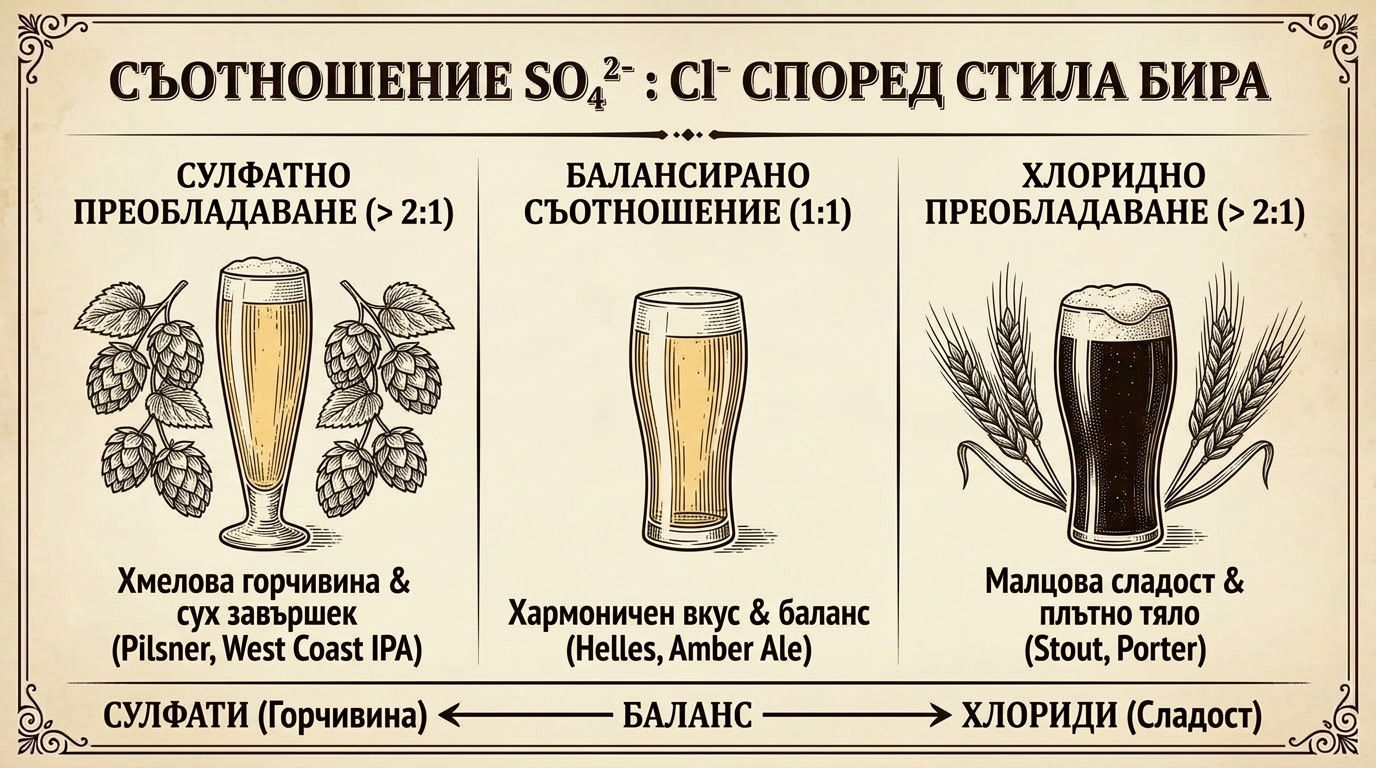
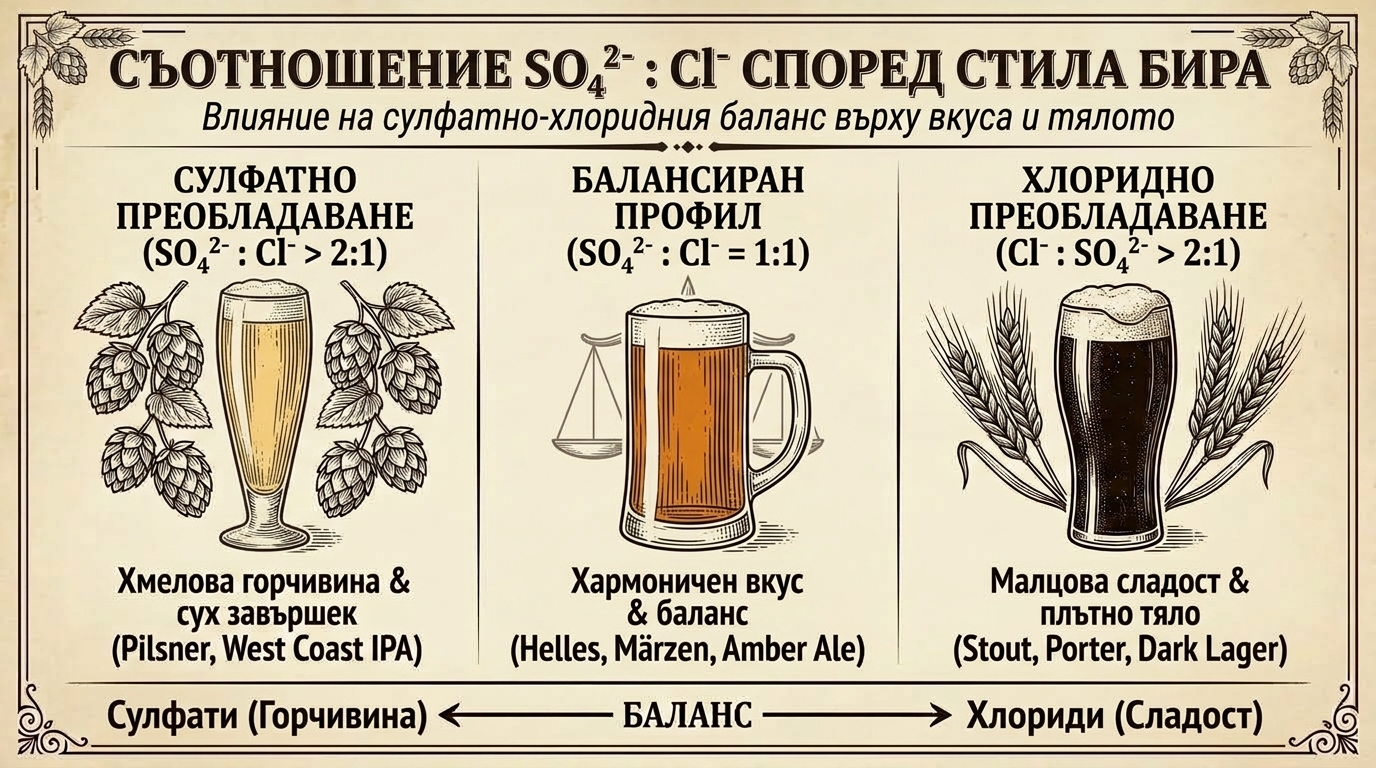
feat(images): upgrade Chapter 1 and Chapter 2.1 diagrams to v2 vintage style

diff --git a/chapter-01.html b/chapter-01.html
@@ -88,7 +88,7 @@
         </ol>
 
         <figure class="wide-figure">
-          <img src="images/chronology-diagram.png" alt="Хронология на бирата: Кратка история на една напитка" width="1000" height="562">
+          <img src="images/chronology-diagram.jpg" alt="Хронология на бирата: Кратка история на една напитка" width="1000" height="562">
           <figcaption>Хронология на бирата: Кратка история на една напитка през вековете</figcaption>
         </figure>
       </section>

diff --git a/HANDOFF.md b/HANDOFF.md
@@ -23,7 +23,7 @@ e:/Server/homebrew-ebook/
 ├── css/
 │   └── style.css                 # Master stylesheet (Light & Dark theme)
 ├── images/
-│   ├── chronology-diagram.png    # Bulgarian timeline illustration (Chapter 1)
+│   ├── chronology-diagram.jpg    # Bulgarian timeline illustration (Chapter 1)
 │   ├── water-profiles-diagram.jpg# SO₄²⁻ : Cl⁻ ratio diagram (Chapter 2.1)
 │   └── malting-process-diagram.jpg # Malting process diagram (Chapter 2.2)
 ├── HANDOFF.md                    # Current state & memory for AI agents (This file)
@@ -64,7 +64,7 @@ The layout uses two separate CSS custom properties to decouple container width f
 - **Chapter 1** (`chapter-01.html`):
   - 1.1 Етимология (`#etymology`)
   - 1.2 Първичен вариант (`#origins`)
-  - 1.3 Хронология (`#chronology`) + Bulgarian Vintage Diagram (`images/chronology-diagram.png`)
+  - 1.3 Хронология (`#chronology`) + Bulgarian Vintage Diagram (`images/chronology-diagram.jpg`)
   - 1.4 Любопитни факти (`#facts`)
 - **Chapter 2** (`chapter-02-1-water.html`, `chapter-02-2-malt.html`, `chapter-02-3-hops.html`):
   - 2.1 Водата – Първата съставка и профилирането (Минерали, български води, бутилирани води, pH) + Diagram (`images/water-profiles-diagram.jpg`)
